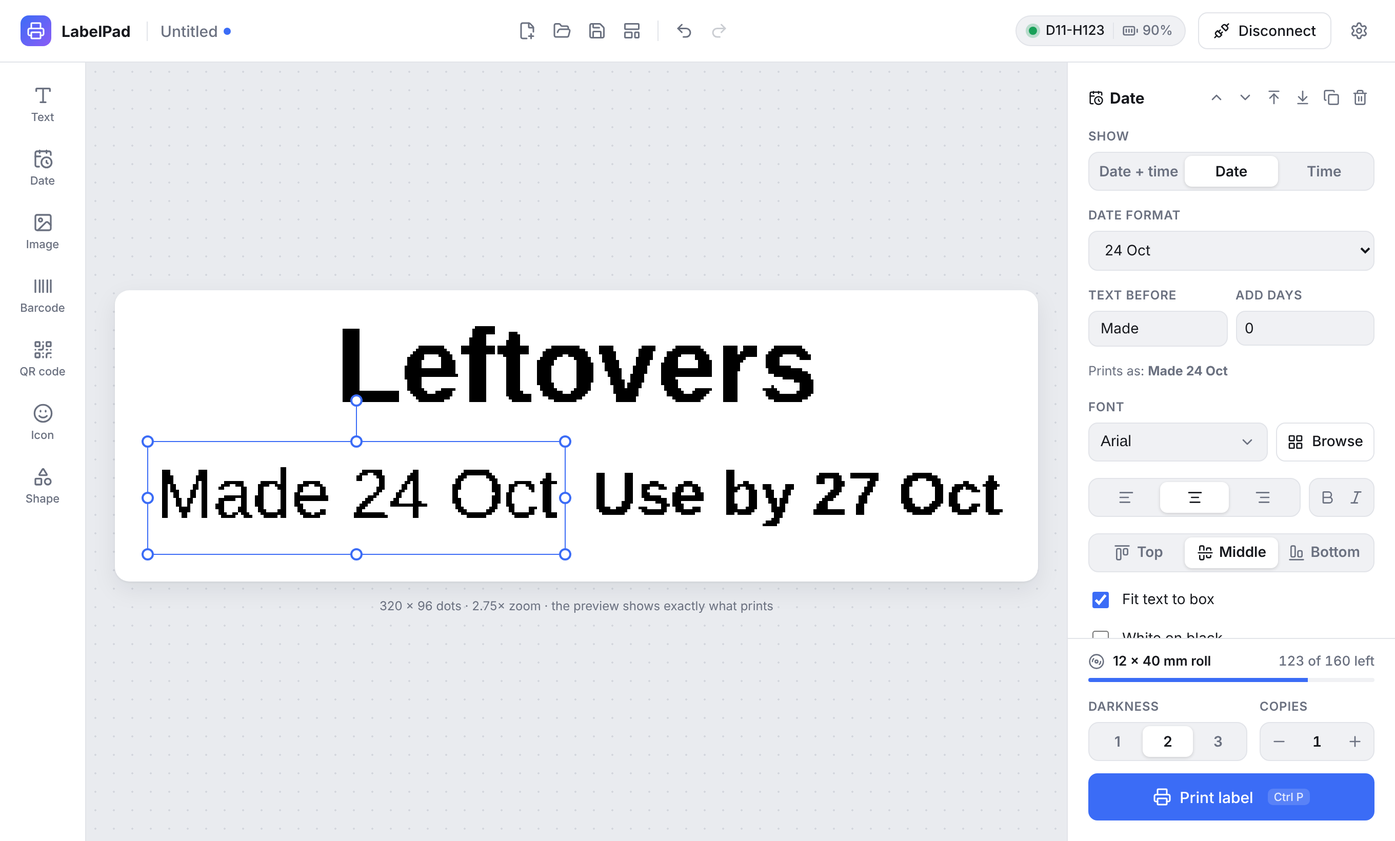
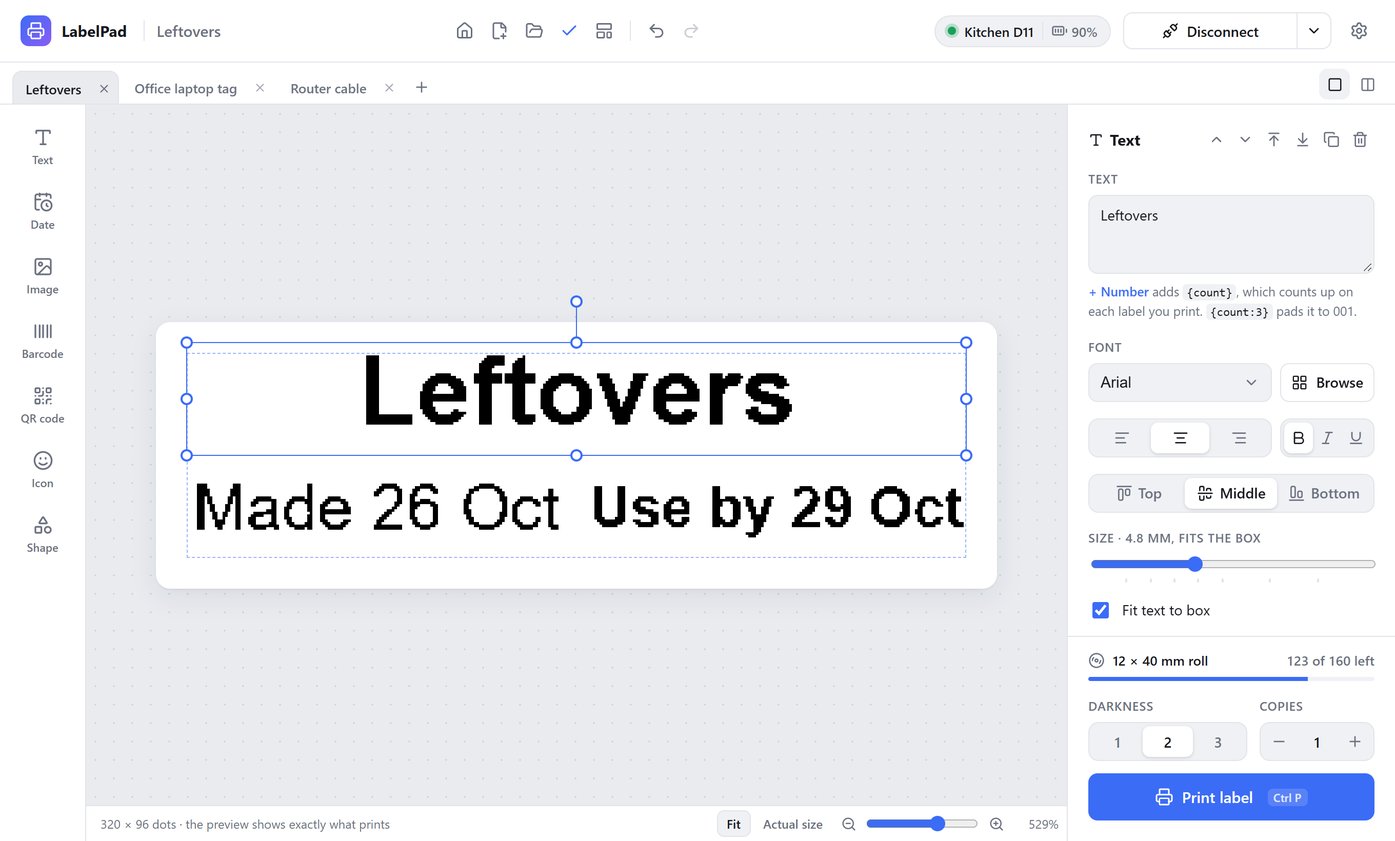
docs: cover everything through v0.6.0 and retake the screenshots
Guide: start screen and recent labels, quick connect, Switch printer and
printer names, tabs and side by side, zoom bar, safe margin, right-click
menu, drop and paste, window memory, underline, QR code types, the full
Lucide icon set, the Documents/LabelPad save folder and Settings > Saving,
the redesigned Settings with the running version, and AI agents over MCP.
Shortcuts gain Ctrl+W, Ctrl+Tab, Ctrl+Y and Ctrl+scroll.

Home page: three new feature cards (tabs, AI agents, remembered setup)
and new rows for QR codes and the start screen. README matches.

Every screenshot is retaken from the current UI, with new ones for the
start screen, tabs, QR codes, icons and the right-click menu. Long inline
code now wraps so the guide doesn't scroll sideways on phones.

diff --git a/docs/guide.html b/docs/guide.html
@@ -36,14 +36,18 @@
       <p>On this page</p>
       <a href="#install">Install</a>
       <a href="#connect">Connect the printer</a>
+      <a href="#start">The start screen</a>
       <a href="#editor">The editor</a>
       <a href="#elements">What you can add</a>
+      <a href="#qr">QR codes</a>
       <a href="#dates">Dates and times</a>
       <a href="#numbering">Numbered labels</a>
       <a href="#layout">Selecting and aligning</a>
+      <a href="#tabs">Several labels at once</a>
       <a href="#templates">Templates and files</a>
       <a href="#printing">Printing and label rolls</a>
       <a href="#settings">Settings</a>
+      <a href="#agents">AI agents (MCP)</a>
       <a href="#shortcuts">Keyboard shortcuts</a>
       <a href="#troubleshooting">Troubleshooting</a>
       <a href="#source">Build from source</a>
@@ -63,40 +67,78 @@
       <p>The first time you connect, macOS asks for permission to use Bluetooth. Allow it.</p>
       <h3>Linux</h3>
       <p>Use the <code>.AppImage</code> on any distribution (make it executable with <code>chmod +x</code>), or install the <code>.deb</code> or <code>.rpm</code>. Bluetooth goes through BlueZ, so the Bluetooth service must be running and your user needs access to it, usually by being in the <code>bluetooth</code> group.</p>
+      <p>The installers register <code>.labelpad</code> files with LabelPad, so double-clicking a label in your file manager opens it in the app.</p>
 
       <h2 id="connect">Connect the printer</h2>
       <ol class="steps">
         <li>Turn the printer on. You don't need to pair it in your system's Bluetooth settings.</li>
-        <li>Click <strong>Connect printer</strong> in the top right. Printers nearby appear in a list, and the one you used last is marked.</li>
-        <li>Pick your printer. The header shows its name and battery, and the right panel shows the loaded label roll.</li>
+        <li>Click <strong>Connect printer</strong> in the top right and pick your printer from the list.</li>
+        <li>The header shows its name and battery, and the right panel shows the loaded label roll.</li>
       </ol>
-      <img class="shot" src="screenshots/connect.png" alt="The printer list after clicking Connect printer" loading="lazy">
+      <p>From then on, the button says <strong>Connect</strong> with your printer's name. Click it and LabelPad looks for that printer and connects as soon as it appears. If it can't find it, the printer list opens instead.</p>
+      <p>The arrow beside the button has two more options. <strong>Switch printer</strong> opens the list so you can pick a different one. The printer you used last stays pinned at the top and the others keep the order they were found in, so nothing moves just as you click. <strong>Rename</strong> gives your printer a name of your own, such as <em>Kitchen D11</em>, which then shows on the button, the status badge and in the list.</p>
+      <img class="shot" src="screenshots/connect.png" alt="The printer list, with the last-used printer pinned at the top" loading="lazy">
+
+      <h2 id="start">The start screen</h2>
+      <p>LabelPad opens on a start screen. <strong>New label</strong> starts a blank label in the size you used last, and the chips under <strong>Other sizes</strong> start one in another common size. <strong>Start from a template</strong> and <strong>Open a file</strong> do what they say, and <strong>Continue editing</strong> appears when labels from last time are still open.</p>
+      <p>On the right are the 10 labels you opened or saved most recently, newest first, each with a preview, its size and when it last changed. Search them by name, or use the <strong>×</strong> on a card to take it off the list (the file itself is left alone). Files that were moved or deleted drop off by themselves.</p>
+      <img class="shot" src="screenshots/start.png" alt="The start screen with recent labels" loading="lazy">
+      <p>The house icon in the header brings the start screen back at any time. To skip it at launch, untick <strong>Show this screen at launch</strong>, or turn it off in <a href="#settings">Settings</a>.</p>
 
       <h2 id="editor">The editor</h2>
       <p>The window has three parts. On the left are the things you can add. In the middle is the label, drawn at the printer's real resolution (8 dots per millimetre on the D11, about 12 on the M3), so the preview is exactly what prints. On the right, the panel changes with what you've selected: the label's size when nothing is selected, or the settings of the item you clicked. The print controls sit at the bottom of that panel.</p>
-      <img class="shot" src="screenshots/date-time.png" alt="The editor with a date element selected and its settings on the right" loading="lazy">
+      <img class="shot" src="screenshots/editor-light.png" alt="The editor with a text item selected and its settings on the right" loading="lazy">
       <p>Drag items to move them, pull the handles to resize, and use the round handle to rotate. Items snap to the label's edges, its center, and each other. Undo and redo cover every change.</p>
-      <p>With nothing selected, the right panel sets the label size. Choose the printer the label is for (D11 or M3), then pick one of its common sizes or type your own width and length in millimetres. Connecting a different printer offers to convert the label, and it's converted automatically when it prints.</p>
+      <p>A faint dashed line marks 1&nbsp;mm in from the label's edge. Printers don't print reliably right at the edge, so keep anything important inside it. Items snap to it too.</p>
+      <p>Right-click an item for <strong>Duplicate</strong>, its stacking order (bring to front, bring forward, send backward, send to back), <strong>Center horizontally</strong>, <strong>Center vertically</strong> and <strong>Delete</strong>.</p>
+      <img class="shot" src="screenshots/context-menu.png" alt="The right-click menu on a text item" loading="lazy">
+      <h3>Zoom</h3>
+      <p>The bar under the label sets how big it shows. <strong>Fit</strong> fills the space available, <strong>Actual size</strong> shows it at about the size it prints, and the slider and buttons zoom in between. You can also hold <kbd>Ctrl</kbd> and scroll, or pinch on a trackpad. The zoom you pick is remembered.</p>
+      <h3>Label size and printer</h3>
+      <p>With nothing selected, the right panel sets the label size. Pick one of the common sizes or type your own width and length in millimetres. While a printer is connected, the label is laid out for that printer; otherwise choose the printer it's for (D11 or M3). If a label was laid out for the other printer, a <strong>Convert</strong> button switches it, and it's converted automatically when it prints.</p>
+      <h3>Drop or paste</h3>
+      <p>Drag an image file onto the window, or paste an image you copied, and it becomes an image item. Text, or a <code>.txt</code> file, becomes a text box. Dropping a <code>.labelpad</code> file opens it.</p>
+      <p>LabelPad remembers the window's size and position, and whether it was maximized. If that spot is no longer on a screen, say after unplugging a monitor, it brings the window back onto one.</p>
 
       <h2 id="elements">What you can add</h2>
       <table>
         <thead><tr><th>Item</th><th>What it does</th></tr></thead>
         <tbody>
-          <tr><td><strong>Text</strong></td><td>Any font installed on your computer, bold or italic, aligned left, center or right and top, middle or bottom. <em>Fit text to box</em> sizes it to fill the box, and <em>White on black</em> inverts it.</td></tr>
+          <tr><td><strong>Text</strong></td><td>Any font installed on your computer, bold, italic or underlined, aligned left, center or right and top, middle or bottom. <em>Fit text to box</em> sizes it to fill the box, and <em>White on black</em> inverts it. The size slider always shows the size in millimetres; moving it turns fitting off.</td></tr>
           <tr><td><strong>Date</strong></td><td>The date and/or time at the moment you print. See <a href="#dates">Dates and times</a>.</td></tr>
-          <tr><td><strong>Image</strong></td><td>Any picture from your computer. <em>Dither</em> keeps shading in photos; <em>threshold</em> gives clean edges for logos, with a slider for how dark counts as black.</td></tr>
+          <tr><td><strong>Image</strong></td><td>Any picture from your computer. <em>Photo</em> keeps shading with dithering; <em>Logo</em> gives crisp black and white edges, with a slider for how dark counts as black.</td></tr>
           <tr><td><strong>Barcode</strong></td><td>Code 128, Code 39, EAN-13, EAN-8, UPC and ITF-14, with or without the number underneath.</td></tr>
-          <tr><td><strong>QR code</strong></td><td>Any text or link. Keep it short on a 12&nbsp;mm label so it scans reliably.</td></tr>
-          <tr><td><strong>Icon</strong></td><td>A searchable set of clean line icons: boxes, food, cables, tools, pets and more.</td></tr>
+          <tr><td><strong>QR code</strong></td><td>Links, text, email, Wi-Fi, phone numbers, text messages, contacts and map locations. See <a href="#qr">QR codes</a>.</td></tr>
+          <tr><td><strong>Icon</strong></td><td>The whole <a href="https://lucide.dev">Lucide</a> set, about 1,900 clean line icons. The picker opens on popular label icons; search by name to find the rest.</td></tr>
           <tr><td><strong>Shape</strong></td><td>Rectangles, ellipses and lines, outlined or filled, for borders and dividers.</td></tr>
         </tbody>
       </table>
+      <img class="shot" src="screenshots/icons.png" alt="The icon picker searching for box" loading="lazy">
       <h3>Choosing a font</h3>
       <p>The font list in the text panel shows popular fonts first, then everything else installed. Click <strong>Browse</strong> to see every font with your label's text as the preview, filtered by style.</p>
       <img class="shot" src="screenshots/fonts.png" alt="The font browser" loading="lazy">
 
+      <h2 id="qr">QR codes</h2>
+      <p>Choose what the code is for under <strong>Type</strong>, then fill in its fields. LabelPad builds the code in the form phones expect, so scanning it does the right thing.</p>
+      <table>
+        <thead><tr><th>Type</th><th>Scanning it</th></tr></thead>
+        <tbody>
+          <tr><td><strong>Link</strong></td><td>Opens the web address.</td></tr>
+          <tr><td><strong>Text</strong></td><td>Shows the text.</td></tr>
+          <tr><td><strong>Email</strong></td><td>Starts an email with the address, subject and message filled in.</td></tr>
+          <tr><td><strong>Wi-Fi network</strong></td><td>Joins the network. Choose WPA, WEP or none, and tick <em>Hidden network</em> if it doesn't broadcast its name. Anyone who can see the label can read the password.</td></tr>
+          <tr><td><strong>Phone call</strong></td><td>Offers to call the number.</td></tr>
+          <tr><td><strong>Text message (SMS)</strong></td><td>Starts a text to the number with your message.</td></tr>
+          <tr><td><strong>Contact card</strong></td><td>Offers to save a contact with name, phone, email, company, job title, website and address.</td></tr>
+          <tr><td><strong>Map location</strong></td><td>Opens a map at the latitude and longitude. Long-press a place in a map app to copy them.</td></tr>
+        </tbody>
+      </table>
+      <p>LabelPad tells you how many squares the code has and how big each one prints, and warns you when they're too small to scan reliably. If it does, make the code bigger, put less in it, or lower the error correction. Small labels hold less than you'd think: a Wi-Fi code on a 12&nbsp;mm label is right at the limit.</p>
+      <img class="shot" src="screenshots/qr.png" alt="A Wi-Fi QR code with its network name, security and password" loading="lazy">
+
       <h2 id="dates">Dates and times</h2>
       <p>A date item fills itself in when you print. Choose <strong>Date + time</strong>, <strong>Date</strong> or <strong>Time</strong>, then a date format. <em>System format</em> follows your computer's region settings. Times print as hours and minutes, in 12-hour or 24-hour form.</p>
+      <img class="shot" src="screenshots/date-time.png" alt="The editor with a date item selected and its settings on the right" loading="lazy">
       <p><strong>Text before</strong> adds words such as <code>Made</code> or <code>Use by</code>, and <strong>Add days</strong> moves the date forward, which is how the Food container template prints a use-by date three days out.</p>
       <p>To make your own format, type a pattern with these tokens. Anything else prints as written.</p>
       <table>
@@ -122,23 +164,58 @@
 
       <h2 id="layout">Selecting and aligning</h2>
       <p>Shift-click items to select several, or drag a box around them from an empty part of the label. Drag any selected item to move them all together.</p>
-      <p>The panel then offers alignment. <strong>To each other</strong> lines the items up with the outer edges of the selection; <strong>To the label</strong> lines them up with the label itself. <strong>Distribute</strong> spaces items evenly, which needs three or more when aligning to each other. A single item can be centered on the label from its own panel.</p>
-      <img class="shot" src="screenshots/align.png" alt="Align and distribute controls" loading="lazy">
+      <p>The panel then offers alignment. <strong>To each other</strong> lines the items up with the outer edges of the selection; <strong>To the label</strong> lines them up with the label itself. <strong>Distribute</strong> spaces items evenly, which needs three or more when aligning to each other. A single item can be centered on the label from its own panel or its right-click menu.</p>
+      <img class="shot" src="screenshots/align.png" alt="Two items selected with align and distribute controls, in dark mode" loading="lazy">
+
+      <h2 id="tabs">Several labels at once</h2>
+      <p>Every label you open or start gets its own tab, with its own file, undo history and selection. A dot on a tab means it has unsaved changes. Click a tab to switch, or press <kbd>Ctrl</kbd>+<kbd>Tab</kbd> for the next one. Close one with its <strong>×</strong>, a middle-click or <kbd>Ctrl</kbd>+<kbd>W</kbd>. The tabs you had open come back the next time you start the app.</p>
+      <p>The two buttons at the right of the tab bar switch between one label at a time and every label side by side. Side by side, click a label to edit it.</p>
+      <img class="shot" src="screenshots/tabs.png" alt="Three labels open side by side" loading="lazy">
 
       <h2 id="templates">Templates and files</h2>
-      <p><strong>New</strong> (<kbd>Ctrl</kbd>+<kbd>N</kbd>) opens the template gallery: a blank label, the built-in templates, and any label you saved with <strong>Save as template</strong>.</p>
+      <p><strong>New</strong> (<kbd>Ctrl</kbd>+<kbd>N</kbd>) opens the template gallery: a blank label, a shortcut to open a saved label, the built-in templates, and any label you saved with <strong>Save as template</strong>.</p>
       <img class="shot" src="screenshots/templates.png" alt="The template gallery" loading="lazy">
-      <p>Labels save as <code>.labelpad</code> files, in <code>Documents\LabelPad</code> unless you pick another folder in Settings, that you can keep, share and open again. The label you were working on reopens when you start the app, even if you never saved it. You can turn that off in Settings.</p>
+      <p>Labels save as <code>.labelpad</code> files that you can keep, share and open again. New labels save to a <code>LabelPad</code> folder in your Documents, which LabelPad creates for you. After that, Save and Open start in the folder you last saved to. In <a href="#settings">Settings</a> you can pick a different folder, or always start in the save folder.</p>
+      <p>The labels you were working on reopen when you start the app, even if you never saved them. You can turn that off in Settings.</p>
 
       <h2 id="printing">Printing and label rolls</h2>
-      <p>Choose a <strong>darkness</strong> from 1 to 3 and the number of <strong>copies</strong>, then click <strong>Print</strong> or press <kbd>Ctrl</kbd>+<kbd>P</kbd>. If labels come out faint, raise the darkness; if fine detail bleeds together, lower it.</p>
+      <p>Choose a <strong>darkness</strong> from 1 to 3 and the number of <strong>copies</strong>, then click <strong>Print</strong> or press <kbd>Ctrl</kbd>+<kbd>P</kbd>. The button fills up as labels are sent and printed, then says <em>Printed</em>, or <em>Try again</em> if something went wrong. If labels come out faint, raise the darkness; if fine detail bleeds together, lower it.</p>
       <p>Genuine Niimbot rolls carry an RFID tag. Once connected, the app shows how many labels are left on the roll. The tag doesn't say how big the labels are, so the first time you load a type of roll the app asks once and remembers. After that, if your label doesn't match the roll, it offers to switch.</p>
 
       <h2 id="settings">Settings</h2>
-      <p>The gear icon in the top right opens Settings: light, dark or system theme, whether to reopen your last label at startup, and updates. Darkness, copies, label size and your printer are remembered automatically.</p>
+      <p>The gear icon in the top right opens Settings. Darkness, copies, label size, zoom and your printer are remembered automatically; the rest is here.</p>
+      <table>
+        <thead><tr><th>Section</th><th>What it sets</th></tr></thead>
+        <tbody>
+          <tr><td><strong>Appearance</strong></td><td>Follow your system, or always use light or dark.</td></tr>
+          <tr><td><strong>Startup</strong></td><td>Whether to reopen the labels you were working on, and whether to show the start screen.</td></tr>
+          <tr><td><strong>Saving</strong></td><td>The folder new labels save to (<strong>Change…</strong>, or <strong>Use default</strong> to go back to Documents\LabelPad), and whether Save and Open start in the last folder you saved to.</td></tr>
+          <tr><td><strong>Printer</strong></td><td>The printer quick connect looks for. <strong>Forget</strong> clears it, so the next Connect opens the printer list.</td></tr>
+          <tr><td><strong>Updates</strong></td><td>The weekly check for new versions, and <strong>Check now</strong>.</td></tr>
+        </tbody>
+      </table>
+      <p>The bottom of the window shows the version of LabelPad you're running, with a link to the release notes.</p>
       <img class="shot" src="screenshots/settings.png" alt="The settings dialog in dark mode" loading="lazy">
       <h3>Updates</h3>
-      <p>Once a week LabelPad checks for a new version. When there is one, it shows what's new and asks: <strong>Update now</strong> downloads it and restarts the app, and <strong>Later</strong> asks again next week. Use <strong>Check now</strong> in Settings to look straight away, or turn the weekly check off. On Linux, the AppImage updates itself; if you installed the <code>.deb</code> or <code>.rpm</code>, the app links you to the new package instead.</p>
+      <p>Once a week LabelPad checks for a new version. When there is one, it shows what's new and asks: <strong>Update now</strong> downloads it and restarts the app, and <strong>Later</strong> asks again next week. Nothing installs without asking. On Linux, the AppImage updates itself; if you installed the <code>.deb</code> or <code>.rpm</code>, the app links you to the new package instead.</p>
+
+      <h2 id="agents">AI agents (MCP)</h2>
+      <p>LabelPad is also an <a href="https://modelcontextprotocol.io">MCP</a> server, so an AI agent such as Claude can connect your printer, design a label and print it the way you would. The agent works in the open LabelPad window: you see each change as it's made and can undo it. If LabelPad isn't running, the agent starts it.</p>
+      <p>Add LabelPad to your agent's MCP settings with the path to the app and the <code>--mcp</code> argument. For Claude Desktop, that's <code>claude_desktop_config.json</code>:</p>
+      <pre><code>{
+  "mcpServers": {
+    "labelpad": {
+      "command": "C:\\Users\\you\\AppData\\Local\\LabelPad\\labelpad.exe",
+      "args": ["--mcp"]
+    }
+  }
+}</code></pre>
+      <ul>
+        <li><strong>Windows:</strong> the installer puts the app at <code>%LOCALAPPDATA%\LabelPad\labelpad.exe</code>.</li>
+        <li><strong>macOS:</strong> the command is <code>/Applications/LabelPad.app/Contents/MacOS/labelpad</code>.</li>
+        <li><strong>Claude Code:</strong> run <code>claude mcp add labelpad -- "&lt;path to labelpad&gt;" --mcp</code>.</li>
+      </ul>
+      <p>The agent can find and connect printers (with no name, it reconnects the last one), start labels blank or from a template, add and change text, dates, images, barcodes, QR codes, icons and shapes in millimetres, look at the exact image that will print to check its work, and open, save and print <code>.labelpad</code> files. It keeps things inside the safe margin the way snapping does for you. Try asking: <em>"Make a 12×40 label that says Spices with a jar icon, and print two."</em></p>
 
       <h2 id="shortcuts">Keyboard shortcuts</h2>
       <p>On a Mac, use <kbd>⌘</kbd> where this says <kbd>Ctrl</kbd>.</p>
@@ -148,11 +225,14 @@
           <tr><td><kbd>Ctrl</kbd>+<kbd>N</kbd></td><td>New label from a template</td></tr>
           <tr><td><kbd>Ctrl</kbd>+<kbd>O</kbd></td><td>Open a label</td></tr>
           <tr><td><kbd>Ctrl</kbd>+<kbd>S</kbd> / <kbd>Ctrl</kbd>+<kbd>Shift</kbd>+<kbd>S</kbd></td><td>Save / save as</td></tr>
-          <tr><td><kbd>Ctrl</kbd>+<kbd>Z</kbd> / <kbd>Ctrl</kbd>+<kbd>Shift</kbd>+<kbd>Z</kbd></td><td>Undo / redo</td></tr>
+          <tr><td><kbd>Ctrl</kbd>+<kbd>W</kbd></td><td>Close the tab</td></tr>
+          <tr><td><kbd>Ctrl</kbd>+<kbd>Tab</kbd> / <kbd>Ctrl</kbd>+<kbd>Shift</kbd>+<kbd>Tab</kbd></td><td>Next / previous tab</td></tr>
+          <tr><td><kbd>Ctrl</kbd>+<kbd>Z</kbd> / <kbd>Ctrl</kbd>+<kbd>Shift</kbd>+<kbd>Z</kbd></td><td>Undo / redo (<kbd>Ctrl</kbd>+<kbd>Y</kbd> also redoes)</td></tr>
           <tr><td><kbd>Ctrl</kbd>+<kbd>A</kbd></td><td>Select everything</td></tr>
           <tr><td><kbd>Ctrl</kbd>+<kbd>D</kbd></td><td>Duplicate</td></tr>
           <tr><td><kbd>Delete</kbd></td><td>Remove</td></tr>
           <tr><td>Arrow keys</td><td>Nudge by 1 dot (with <kbd>Shift</kbd>, 1 mm)</td></tr>
+          <tr><td><kbd>Ctrl</kbd> + scroll</td><td>Zoom</td></tr>
           <tr><td><kbd>Ctrl</kbd>+<kbd>P</kbd></td><td>Print</td></tr>
           <tr><td><kbd>Esc</kbd></td><td>Deselect</td></tr>
         </tbody>
@@ -161,12 +241,16 @@
       <h2 id="troubleshooting">Troubleshooting</h2>
       <h3>The printer doesn't appear in the list</h3>
       <p>Make sure it's on and not connected to your phone; a Niimbot printer talks to one device at a time. Close the Niimbot phone app or turn off your phone's Bluetooth, then try again. Check that Bluetooth is on in your computer's settings.</p>
+      <h3>Connect looks for the wrong printer</h3>
+      <p>Quick connect looks for the printer you used last. Pick another with <strong>Switch printer</strong> in the menu beside Connect, or <strong>Forget</strong> the last one in Settings.</p>
       <h3>It connects, then drops</h3>
       <p>Move closer, and charge the printer if the battery is low. Disconnect and reconnect from the header.</p>
       <h3>The print is shifted or cut off</h3>
-      <p>Check that the label size in the editor matches the roll you loaded. The roll panel warns you when they differ.</p>
+      <p>Check that the label size in the editor matches the roll you loaded. The roll panel warns you when they differ. Keep text and codes inside the dashed safe-margin line.</p>
+      <h3>A QR code won't scan</h3>
+      <p>Read the note under the code's settings. If it says the squares are too small, make the code bigger, put less in it, or lower the error correction.</p>
       <h3>Still stuck?</h3>
-      <p><a href="https://github.com/derhally/labelpad/issues/new">Open an issue on GitHub</a> with your printer model, your operating system, and what happened.</p>
+      <p><a href="https://github.com/derhally/labelpad/issues/new">Open an issue on GitHub</a> with your printer model, your operating system, the LabelPad version from Settings, and what happened.</p>
 
       <h2 id="source">Build from source</h2>
       <p>You need Node.js 22 or newer, <a href="https://rustup.rs">Rust</a> (stable), and the <a href="https://tauri.app/start/prerequisites/">Tauri prerequisites</a> for your system. On Linux that includes <code>libwebkit2gtk-4.1-dev</code> and <code>libdbus-1-dev</code>.</p>

diff --git a/docs/index.html b/docs/index.html
@@ -61,10 +61,13 @@
         <div class="grid">
           <div class="card"><div class="icon"><svg viewBox="0 0 24 24" fill="none" stroke="currentColor" stroke-width="2" stroke-linecap="round" stroke-linejoin="round"><path d="m7 7 10 10-5 5V2l5 5L7 17"/></svg></div><h3>Bluetooth, no pairing</h3><p>Turn the printer on and click Connect. The app finds it, reads its battery and the label roll, and remembers it for next time.</p></div>
           <div class="card"><div class="icon"><svg viewBox="0 0 24 24" fill="none" stroke="currentColor" stroke-width="2" stroke-linecap="round" stroke-linejoin="round"><path d="M4 7V4h16v3M9 20h6M12 4v16"/></svg></div><h3>Text in any font</h3><p>Use every font on your computer. Browse them by style with your own text as the preview, then fit text to its box.</p></div>
-          <div class="card"><div class="icon"><svg viewBox="0 0 24 24" fill="none" stroke="currentColor" stroke-width="2" stroke-linecap="round" stroke-linejoin="round"><rect x="3" y="3" width="7" height="7" rx="1"/><rect x="14" y="3" width="7" height="7" rx="1"/><rect x="3" y="14" width="7" height="7" rx="1"/><path d="M14 14h3v3h-3zM20 14v.01M14 20h.01M17 20h4v-3"/></svg></div><h3>Barcodes and QR codes</h3><p>Code 128, Code 39, EAN, UPC and ITF-14, plus QR codes for links and asset tags. All crisp at 203 dpi.</p></div>
+          <div class="card"><div class="icon"><svg viewBox="0 0 24 24" fill="none" stroke="currentColor" stroke-width="2" stroke-linecap="round" stroke-linejoin="round"><rect x="3" y="3" width="7" height="7" rx="1"/><rect x="14" y="3" width="7" height="7" rx="1"/><rect x="3" y="14" width="7" height="7" rx="1"/><path d="M14 14h3v3h-3zM20 14v.01M14 20h.01M17 20h4v-3"/></svg></div><h3>Barcodes and QR codes</h3><p>Code 128, Code 39, EAN, UPC and ITF-14, plus QR codes for links, Wi-Fi, contacts, email and more. All crisp at the printer's own resolution.</p></div>
           <div class="card"><div class="icon"><svg viewBox="0 0 24 24" fill="none" stroke="currentColor" stroke-width="2" stroke-linecap="round" stroke-linejoin="round"><rect x="3" y="4" width="18" height="18" rx="2"/><path d="M16 2v4M8 2v4M3 10h18"/></svg></div><h3>Dates that fill themselves in</h3><p>Print today's date, the time, or both, in the format you like. Add days for use-by labels.</p></div>
           <div class="card"><div class="icon"><svg viewBox="0 0 24 24" fill="none" stroke="currentColor" stroke-width="2" stroke-linecap="round" stroke-linejoin="round"><path d="M4 9h16M4 15h16M10 3 8 21M16 3l-2 18"/></svg></div><h3>Numbered labels</h3><p>Write <code>Box {count}</code> and print ten. You get Box 1 to Box 10, and the next print carries on from 11.</p></div>
-          <div class="card"><div class="icon"><svg viewBox="0 0 24 24" fill="none" stroke="currentColor" stroke-width="2" stroke-linecap="round" stroke-linejoin="round"><rect x="3" y="3" width="18" height="18" rx="2"/><path d="M3 9h18M9 21V9"/></svg></div><h3>Templates and files</h3><p>Start from a built-in template, save your own, and keep labels as files you can open again.</p></div>
+          <div class="card"><div class="icon"><svg viewBox="0 0 24 24" fill="none" stroke="currentColor" stroke-width="2" stroke-linecap="round" stroke-linejoin="round"><rect x="3" y="3" width="18" height="18" rx="2"/><path d="M3 9h18M9 21V9"/></svg></div><h3>Templates and files</h3><p>Start from a built-in template, save your own, and pick up recent labels from the start screen.</p></div>
+          <div class="card"><div class="icon"><svg viewBox="0 0 24 24" fill="none" stroke="currentColor" stroke-width="2" stroke-linecap="round" stroke-linejoin="round"><rect x="3" y="7" width="18" height="14" rx="2"/><path d="M3 11h18M7 3h5l2 4"/></svg></div><h3>Several labels at once</h3><p>Open labels in tabs, each with its own undo history, or see them all side by side.</p></div>
+          <div class="card"><div class="icon"><svg viewBox="0 0 24 24" fill="none" stroke="currentColor" stroke-width="2" stroke-linecap="round" stroke-linejoin="round"><path d="M12 3l1.9 5.1L19 10l-5.1 1.9L12 17l-1.9-5.1L5 10l5.1-1.9z"/><path d="M19 15v4M17 17h4"/></svg></div><h3>Works with AI agents</h3><p>LabelPad is an MCP server. Ask Claude for a label and watch it appear in the window, ready to print.</p></div>
+          <div class="card"><div class="icon"><svg viewBox="0 0 24 24" fill="none" stroke="currentColor" stroke-width="2" stroke-linecap="round" stroke-linejoin="round"><circle cx="12" cy="12" r="9"/><path d="M12 7v5l3 2"/></svg></div><h3>Remembers your setup</h3><p>Your printer, by a name you give it, your label size, zoom and window position are all there next time.</p></div>
         </div>
       </div>
     </section>
@@ -93,7 +96,7 @@
             <ul>
               <li>Built-in templates for common jobs</li>
               <li>Your templates sit right beside them</li>
-              <li>Your last label reopens when you start the app</li>
+              <li>Your recent labels are one click away on the start screen</li>
             </ul>
           </div>
           <img class="shot" src="screenshots/templates.png" alt="The new label dialog with built-in templates" loading="lazy">
@@ -125,6 +128,34 @@
             </ul>
           </div>
           <img class="shot" src="screenshots/numbering.png" alt="A label reading Box 007 with numbering set to start at 7" loading="lazy">
+        </div>
+
+        <div class="feature">
+          <div class="feature-text">
+            <div class="eyebrow">QR codes</div>
+            <h2>Codes that do something</h2>
+            <p>Pick what a QR code is for and fill in the blanks. LabelPad builds the code phones understand, so a scan joins your Wi-Fi or saves a contact.</p>
+            <ul>
+              <li>Links, text, email, Wi-Fi, calls, texts, contacts and map locations</li>
+              <li>Shows how big each square prints</li>
+              <li>Warns you before you print a code too small to scan</li>
+            </ul>
+          </div>
+          <img class="shot" src="screenshots/qr.png" alt="A Wi-Fi QR code with its network name and password" loading="lazy">
+        </div>
+
+        <div class="feature flip">
+          <div class="feature-text">
+            <div class="eyebrow">Start screen</div>
+            <h2>Pick up where you left off</h2>
+            <p>LabelPad opens on your ten most recent labels, with previews, so the label you printed last week is a click away.</p>
+            <ul>
+              <li>Start a new label in your usual size, or another common one</li>
+              <li>Search your recent labels by name</li>
+              <li>Labels save to a LabelPad folder in Documents, or one you choose</li>
+            </ul>
+          </div>
+          <img class="shot" src="screenshots/start.png" alt="The start screen with recent labels" loading="lazy">
         </div>
       </div>
     </section>

diff --git a/docs/assets/style.css b/docs/assets/style.css
@@ -46,6 +46,7 @@ code, kbd {
   background: var(--code-bg);
   border-radius: 6px;
   padding: 0.12em 0.4em;
+  overflow-wrap: anywhere;
 }
 kbd { border: 1px solid var(--line); border-bottom-width: 2px; white-space: nowrap; }
 pre { background: var(--code-bg); border-radius: 12px; padding: 16px 18px; overflow-x: auto; }

diff --git a/README.md b/README.md
@@ -32,27 +32,37 @@ Turn on the printer, click **Connect printer**, and pick it from the list. You d
 
 Add text, dates, images, barcodes, QR codes, icons and shapes from the left toolbar, then drag, resize and rotate them on the label. Everything snaps to the label edges, its center and other elements. The preview is the exact 1-bit image that's sent to the printer.
 
-- **Text** can use any font installed on your computer, aligned left, center or right and top, middle or bottom. "Browse" shows every font with your label's text, filtered by style (sans serif, serif, monospace, handwriting, display).
+- **Text** can use any font installed on your computer, bold, italic or underlined, aligned left, center or right and top, middle or bottom. "Browse" shows every font with your label's text, filtered by style (sans serif, serif, monospace, handwriting, display).
 - **Date** prints the date and/or time when the label is printed: date + time, date only, or time only. Dates use a format you pick (or your own pattern such as `DD/MM/YYYY`), and times are 12- or 24-hour. "Add days" makes use-by labels.
-- **Files**: labels save as `.labelpad` files (JSON). The label you were working on reopens when the app starts; turn that off in Settings.
+- **QR codes** have a type (link, text, email, Wi-Fi, phone call, SMS, contact card, map location) with its own fields, and LabelPad builds the payload phones expect. The panel shows how big each square prints and warns when it's too small to scan.
+- **Icons**: the picker opens on popular label icons and searches all ~1,900 [Lucide](https://lucide.dev) icons by name.
+- **Safe margin**: a dashed line 1 mm in from the edge marks where printing is reliable, and items snap to it. Right-click an item for duplicate, stacking order, centering and delete.
+- **Start screen**: at launch, start a new label, pick a template, open a file, or reopen one of the 10 most recently modified labels (with thumbnails and search). It can be turned off in Settings.
+- **Tabs**: each open label gets a tab with its own file, undo history and selection; Ctrl+W closes one, Ctrl+Tab switches, and the open tabs come back on the next start. A side-by-side view shows every label at once.
+- **Files**: labels save as `.labelpad` files (JSON), to `Documents\LabelPad` unless you choose another folder in Settings > Saving; after that, Save and Open start in the folder you last saved to. The installers register `.labelpad` so labels open from the file manager. Images and text can be dropped or pasted onto the label.
 - **Templates**: New (Ctrl+N) offers a blank label, built-in templates, and any label you saved with "Save as template". Templates live in the app's data folder.
 - **Align and distribute**: with several items selected, line up their edges or centers with each other or with the label, or space them evenly. A single item can be aligned to the label from its panel.
 - **Numbered labels**: put `{count}` in text, a barcode or a QR code (`{count:3}` pads to 001). Printing 3 copies gives 1, 2, 3; the print panel sets the start number and step, and the next print carries on. The counter is saved with the label.
 - **Label rolls**: genuine Niimbot rolls carry an RFID tag. When connected, the app shows how many labels are left and uses the roll's label type. The tag doesn't include the size, so the first time a roll type is loaded the app asks for its size and remembers it; after that it offers to switch your label to that size.
 - **Updates**: once a week the app checks GitHub releases for a newer version and asks before installing it (Settings has "Check now" and an off switch). Windows, macOS and the Linux AppImage update in place; .deb and .rpm installs get a link to the new package. Release builds are signed with the key in the `TAURI_SIGNING_PRIVATE_KEY` secret, and the app checks them against the public key in `tauri.conf.json`.
-- **Settings** (gear icon): light, dark or system theme. Darkness, copies, label size and the last printer are remembered.
+- **Printers**: Connect quick-connects to the last printer; the menu beside it has Switch printer and Rename, so a printer can have a name of your own. While a printer is connected, labels are laid out for it, with a Convert button for labels made for the other model.
+- **Window**: the window's size, position and maximized state are remembered (and pulled back on screen if a monitor is gone). The zoom bar under the label has Fit, Actual size, a slider and Ctrl+scroll.
+- **Settings** (gear icon): appearance, startup (reopen labels, start screen), saving folder, the quick-connect printer, and updates, with the running version and a link to the release notes. Darkness, copies, label size, zoom and the last printer are remembered.
 
 | Shortcut | Action |
 | --- | --- |
 | Ctrl+N | New label from a template |
 | Ctrl+O | Open a label |
 | Ctrl+S / Ctrl+Shift+S | Save / save as |
-| Ctrl+Z / Ctrl+Shift+Z | Undo / redo |
+| Ctrl+W | Close the tab |
+| Ctrl+Tab / Ctrl+Shift+Tab | Next / previous tab |
+| Ctrl+Z / Ctrl+Shift+Z (or Ctrl+Y) | Undo / redo |
 | Shift-click, or drag on an empty spot | Select several items |
 | Ctrl+A | Select everything |
 | Ctrl+D | Duplicate |
 | Delete | Remove |
 | Arrow keys | Nudge 1 dot (Shift: 1 mm) |
+| Ctrl + scroll | Zoom |
 | Ctrl+P | Print |
 | Esc | Deselect |
 
@@ -105,7 +115,7 @@ On macOS the command is `/Applications/LabelPad.app/Contents/MacOS/labelpad`. Fo
 
 Commit messages follow [Conventional Commits](https://www.conventionalcommits.org) (`feat:`, `fix:`, `docs:`…). [release-please](https://github.com/googleapis/release-please) keeps a release pull request open with the next version and changelog. Merging it tags the release, and the Release workflow builds installers for Windows (.exe, .msi), macOS (Apple silicon .dmg) and Linux (.AppImage, .deb, .rpm) and attaches them to it. The version lives in `package.json`; `tauri.conf.json` reads it from there and release-please updates `Cargo.toml`.
 
-The website in `docs/` is plain HTML and deploys to GitHub Pages on every push to main. To refresh its screenshots, run the app's web UI (`npm run dev:web`) and capture at 1360×820.
+The website in `docs/` is plain HTML and deploys to GitHub Pages on every push to main. To refresh its screenshots, run the app's web UI (`npm run dev:web`) in a browser with the Tauri backend stubbed out, and capture at 1360×820 with a device scale factor of 2.
 
 ## Roadmap
 
